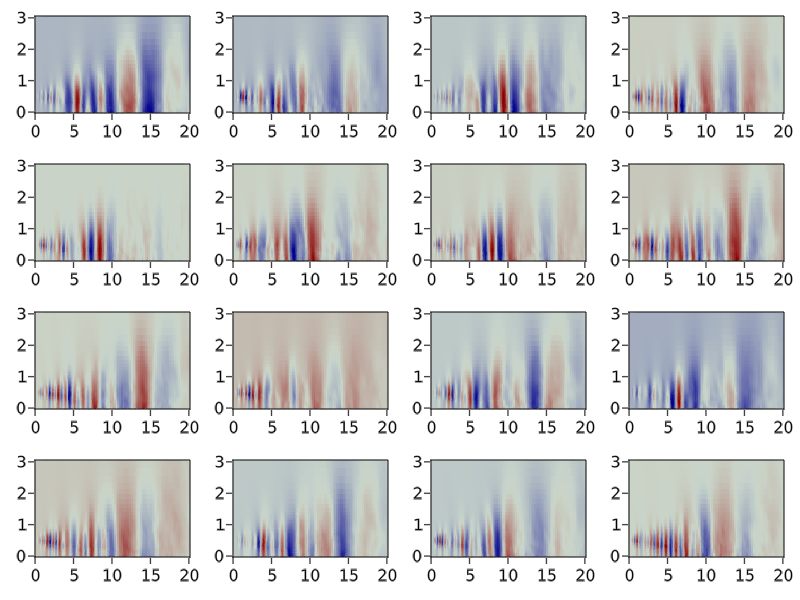
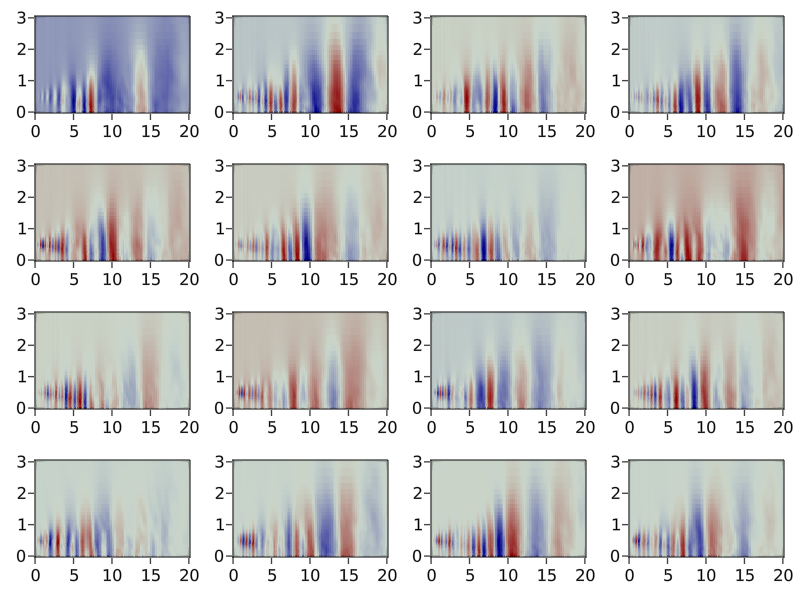
add crossjet. modify colormaps in julia matlab to match

diff --git a/spod/example_1.m b/spod/example_1.m
@@ -43,7 +43,8 @@ size(p)
 figure('name','Pressure of the symmetric component of a turbulent jet')
 for ti=1:100
     pcolor(x,r,squeeze(p(ti,:,:)))
-    axis equal tight, shading interp, caxis([4.43 4.48])
+    axis equal tight, caxis([4.43 4.48])
+    colormap(summer)
     xlabel('x'), ylabel('r')
     pause(0.05)
     drawnow
